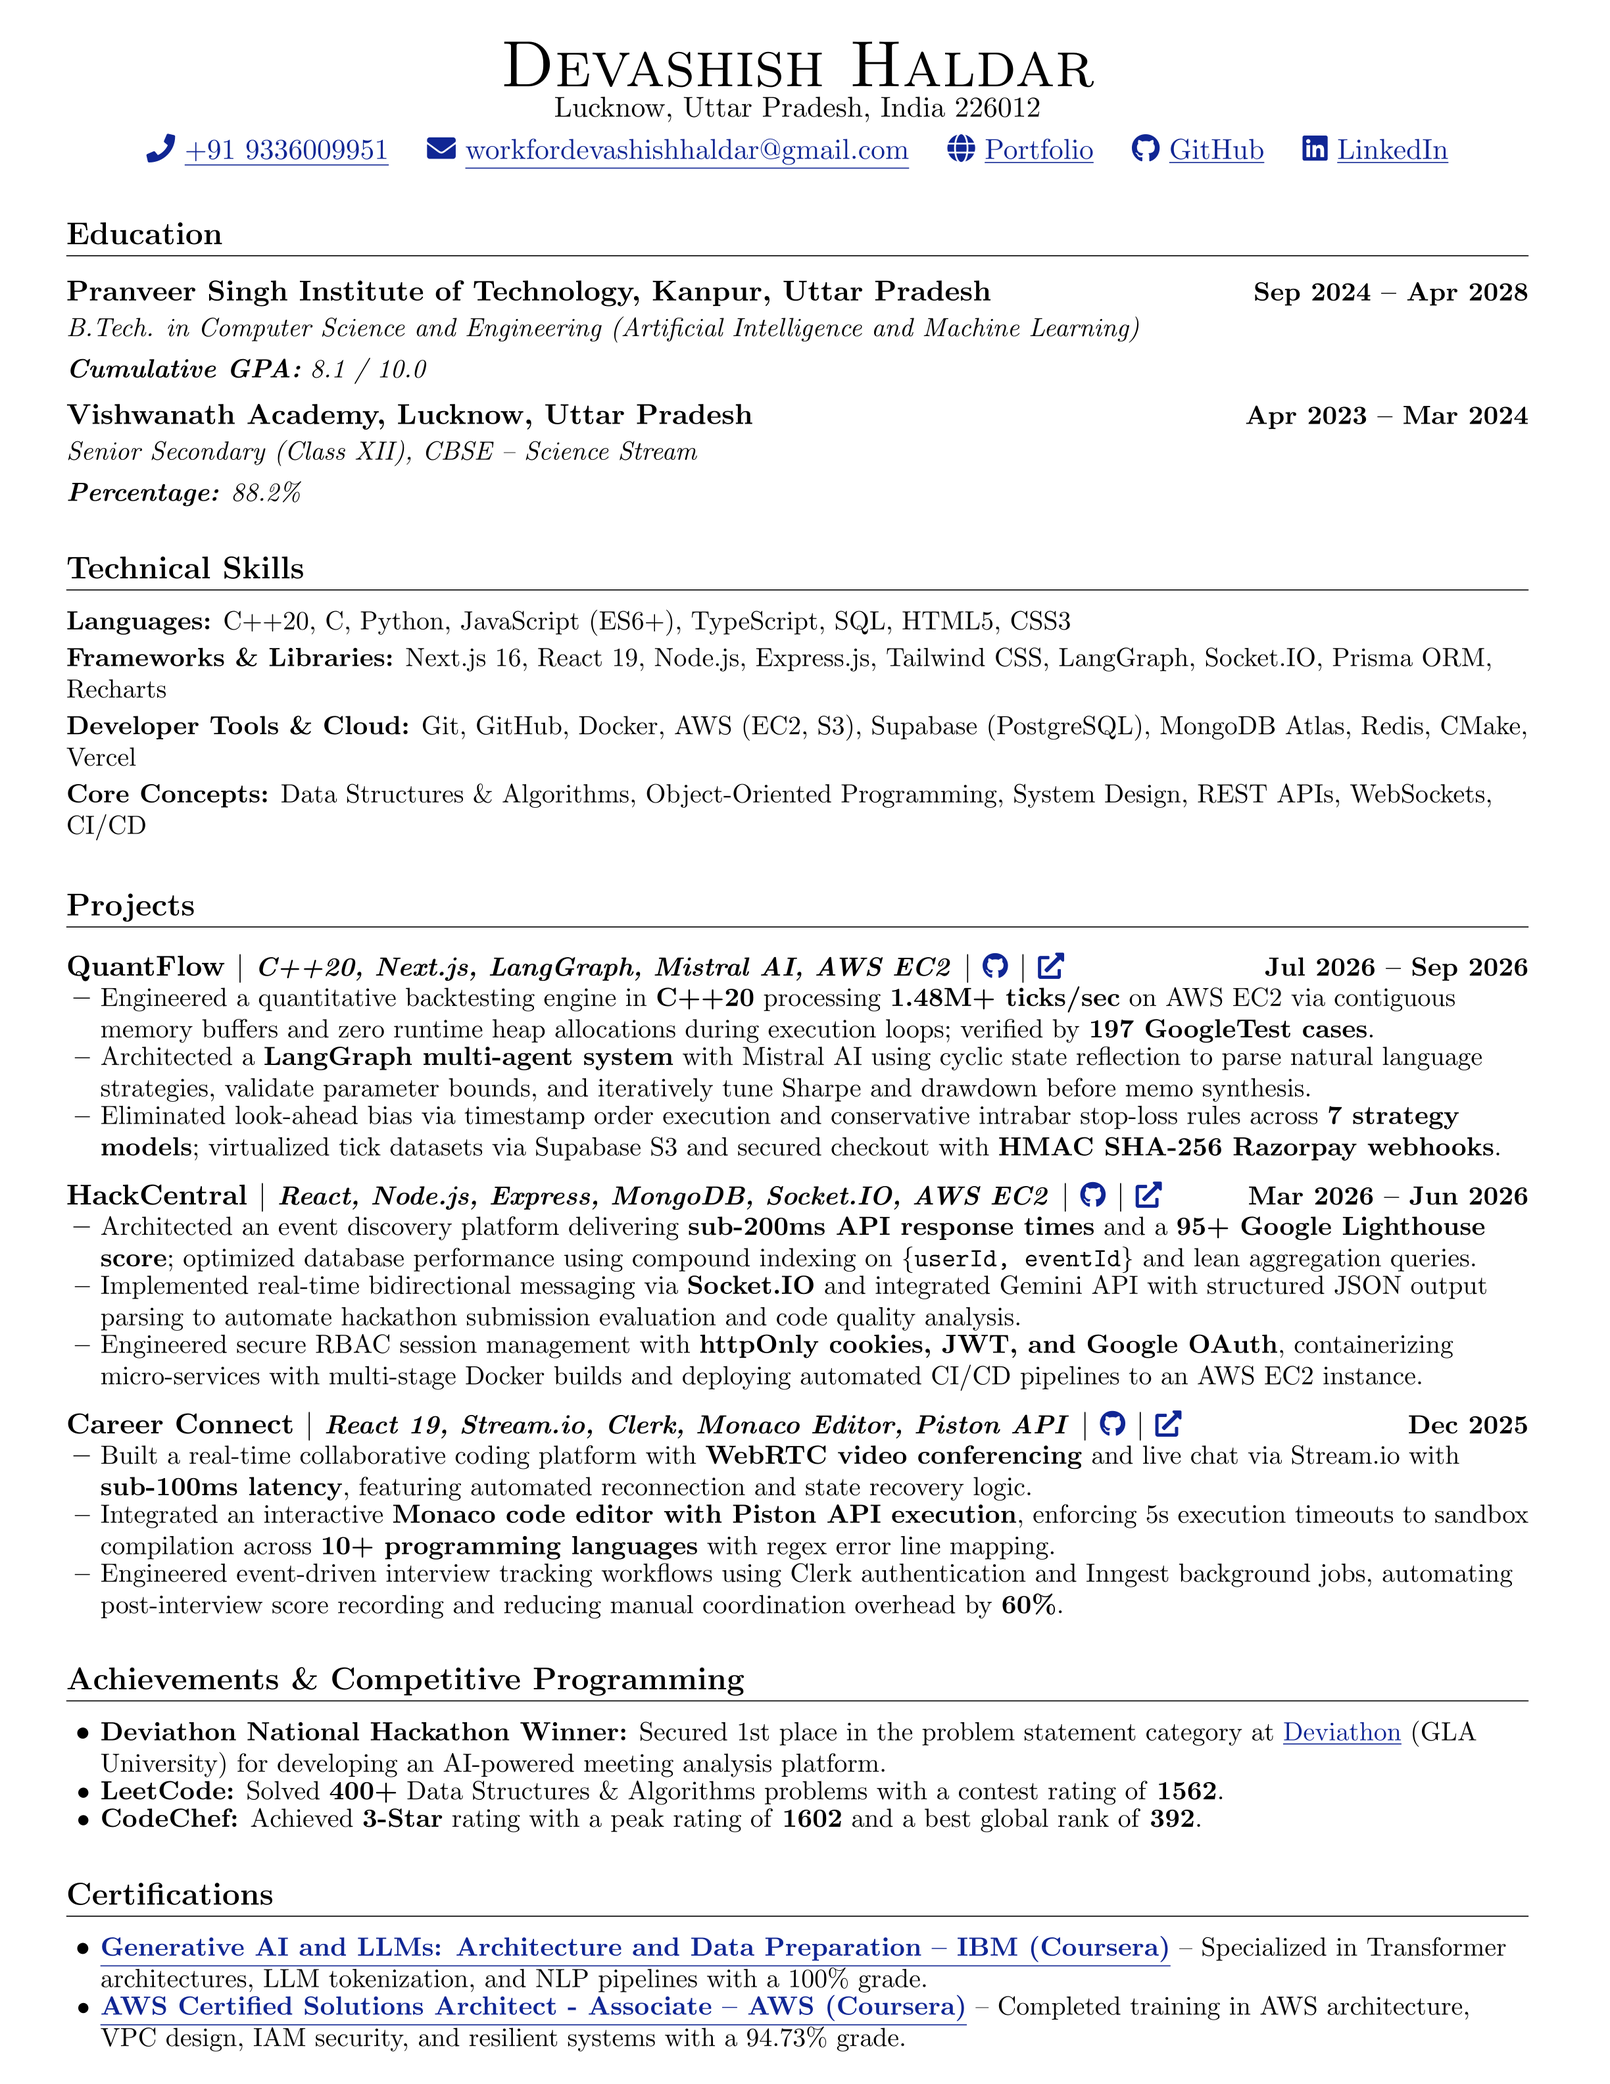
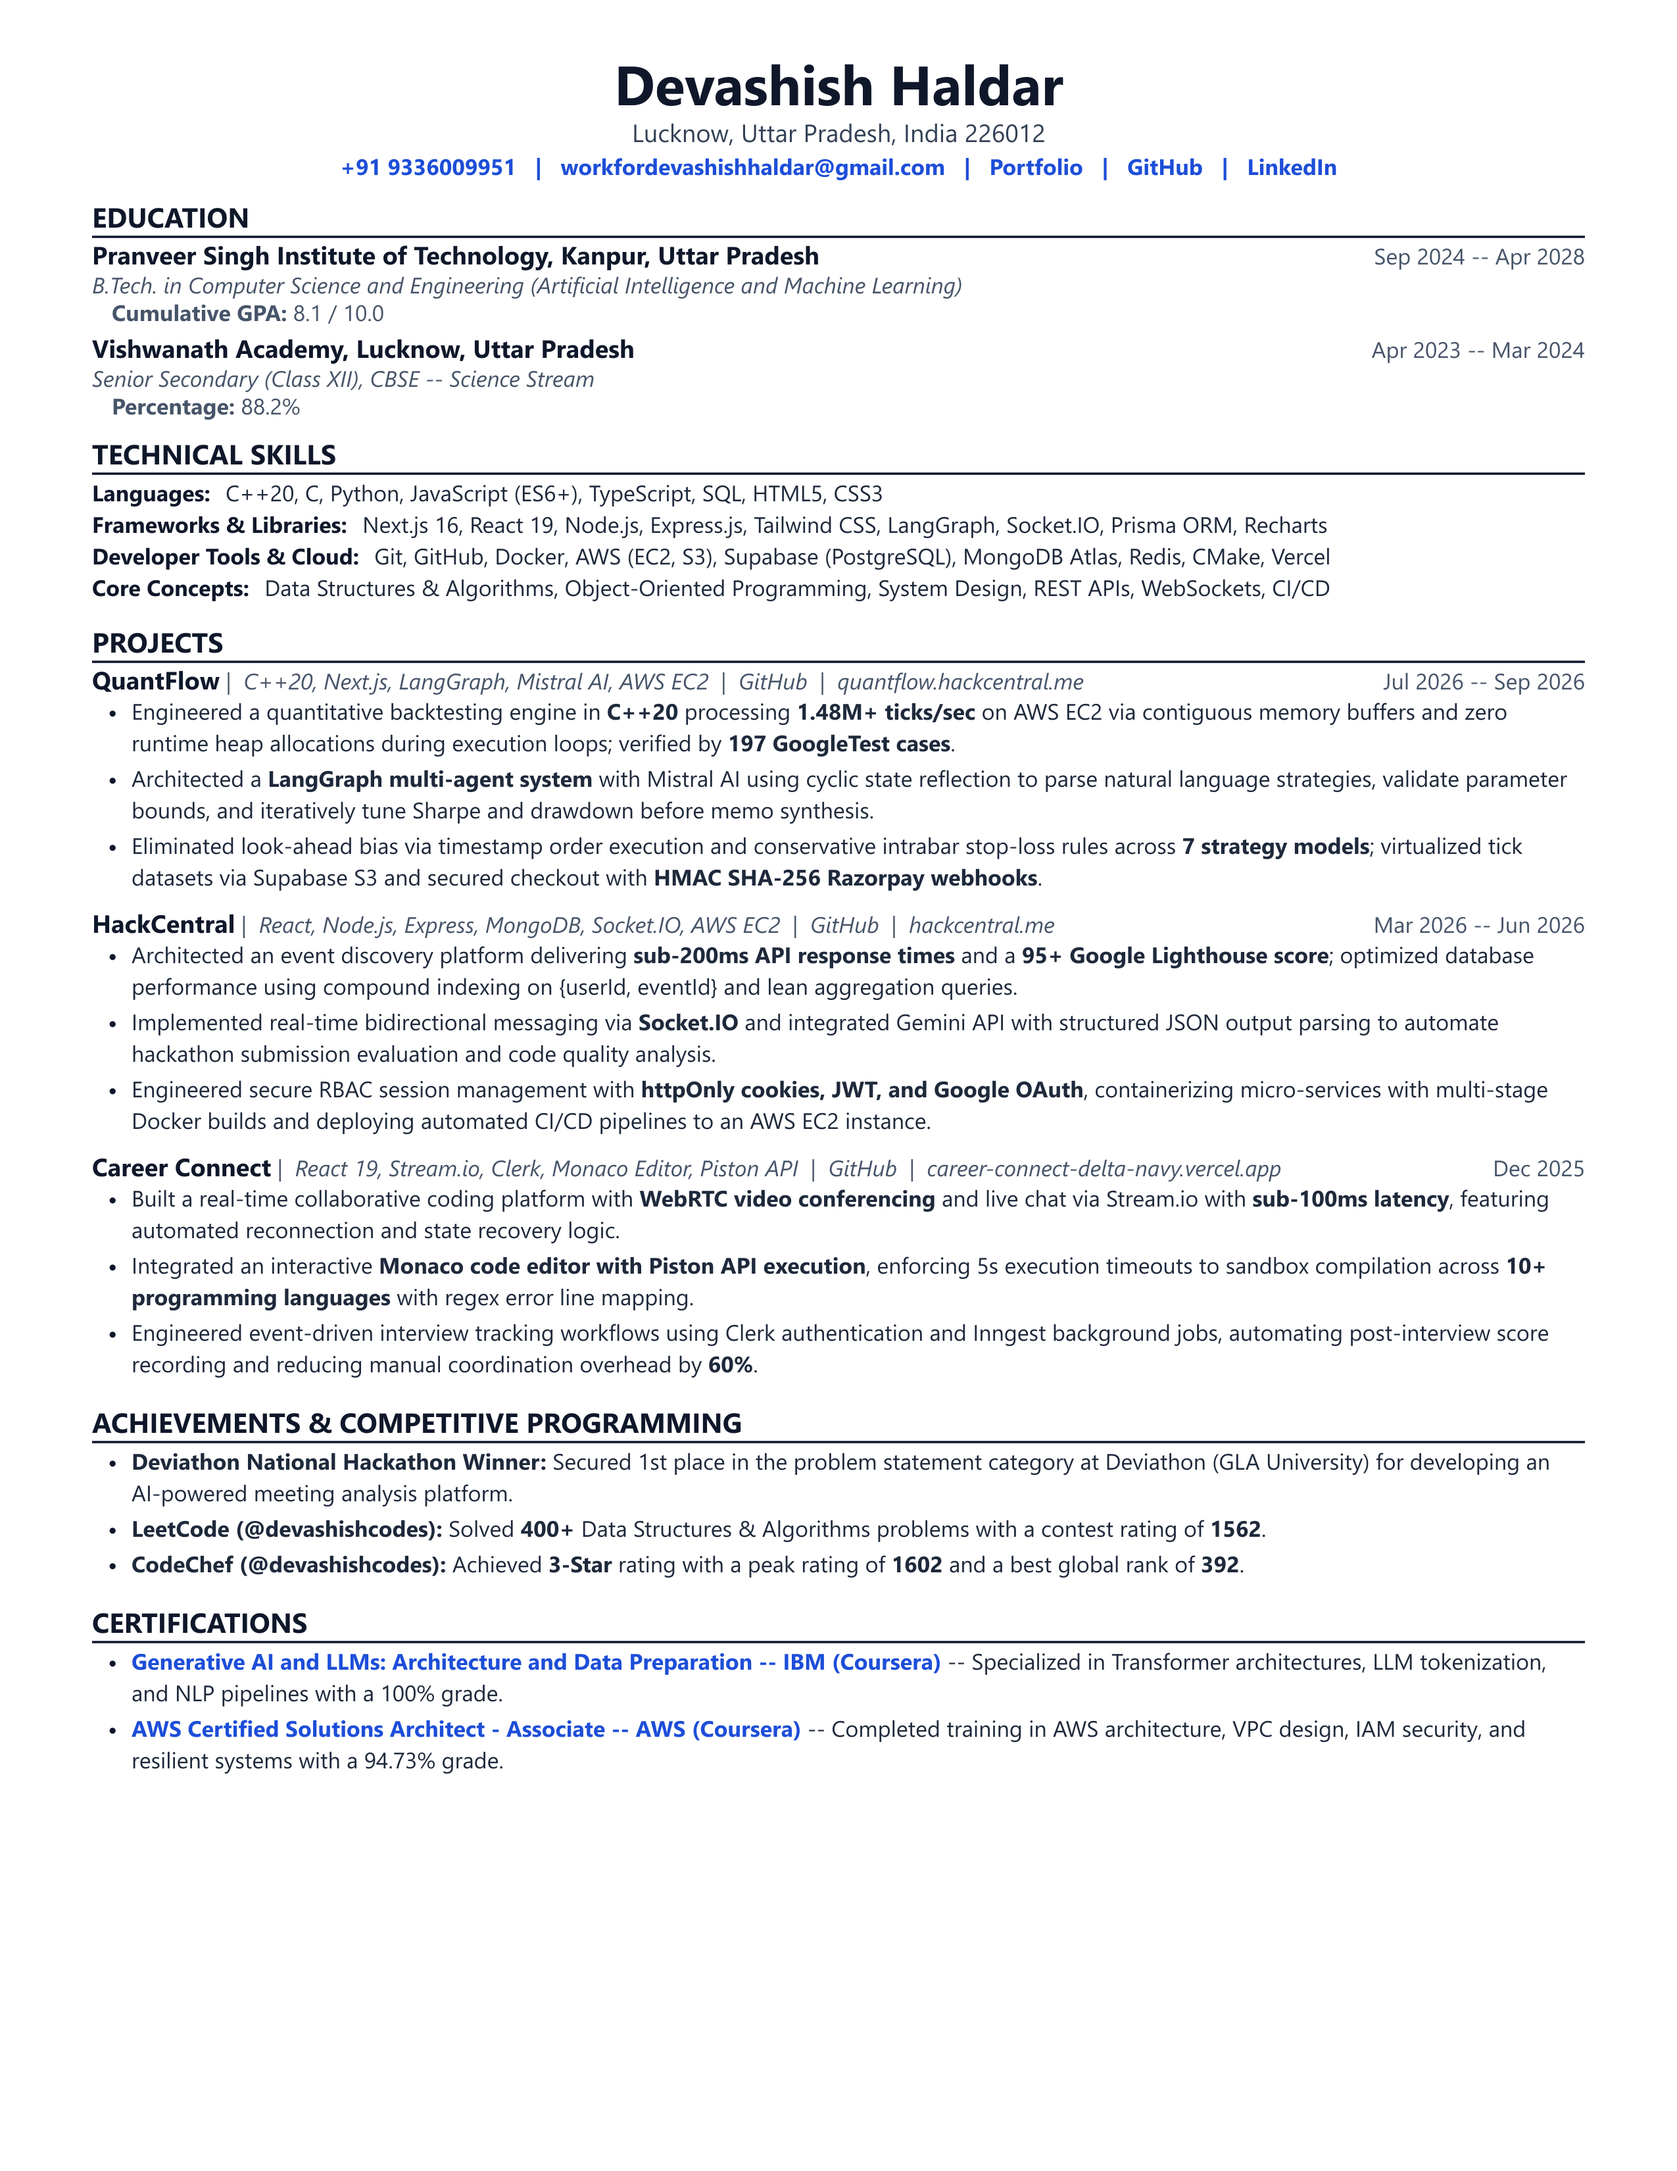
feat: add portfolio UI components, chat API, and automated resume generation scripts

diff --git a/src/app/api/chat/route.ts b/src/app/api/chat/route.ts
@@ -31,7 +31,7 @@ Candidate Dossier & Facts (Never hallucinate outside these facts):
 Major Projects:
 1. QuantFlow (Jul 2026 — Sep 2026): High-frequency quantitative backtesting platform. Core engine built in C++20 processing 1.48M+ ticks/sec on AWS EC2 (c6i.2xlarge) using contiguous memory buffers and zero runtime heap allocations. 197 / 197 GoogleTest cases passed. LangGraph multi-agent loop with Mistral AI using cyclic state reflection to tune Sharpe and drawdown. 0 look-ahead bias via timestamp order execution and intrabar stop-loss rules. Supabase S3 virtualized tick dataset storage; HMAC SHA-256 Razorpay webhook verification. Live: https://quantflow.hackcentral.me
 2. HackCentral (Mar 2026 — Jun 2026): Event discovery & real-time hackathon management platform. Sub-200ms API latency, 95+ Google Lighthouse score. Socket.IO bidirectional collaboration, MongoDB Atlas compound indexes on {userId, eventId}. Google Gemini API with structured JSON output parsing for automated submission evaluation. httpOnly JWT auth & RBAC. Docker on AWS EC2. Live: https://hackcentral.me
-3. Career Connect (Dec 2025): Real-time collaborative interview platform. Stream.io WebRTC (<100ms latency), Monaco code editor with Piston API sandboxed compilation across 10+ languages (5s timeout). Clerk auth + Inngest background jobs reducing coordination overhead by 60%. Live: https://career-connect-4gbj.onrender.com
+3. Career Connect (Dec 2025): Real-time collaborative interview platform. Stream.io WebRTC (<100ms latency), Monaco code editor with Piston API sandboxed compilation across 10+ languages (5s timeout). Clerk auth + Inngest background jobs reducing coordination overhead by 60%. Live: https://career-connect-delta-navy.vercel.app/
 
 Competitive & Honors:
 - Deviathon National Hackathon 1st Place Category Winner (GLA University) for AI meeting analysis platform.

diff --git a/src/components/AboutAndExperience.tsx b/src/components/AboutAndExperience.tsx
@@ -44,7 +44,7 @@ const timelineData: TimelineItem[] = [
     metrics: "Sub-100ms Latency · 10+ Languages · -60% Overhead",
     description:
       "Built a collaborative coding platform with WebRTC video conferencing and live chat via Stream.io (<100ms latency). Integrated Monaco code editor with Piston API execution with 5s execution timeouts to sandbox compilation across 10+ languages. Automated interview tracking with Clerk and Inngest background jobs, reducing coordination overhead by 60%.",
-    link: { label: "Live Platform", url: "https://career-connect-4gbj.onrender.com" },
+    link: { label: "Live Platform", url: "https://career-connect-delta-navy.vercel.app/" },
   },
   {
     year: "2025",

diff --git a/scripts/generate-resume-texture.ts b/scripts/generate-resume-texture.ts
@@ -239,7 +239,7 @@ const ccW = ctx.measureText('Career Connect').width;
 
 ctx.font = 'italic 34px "Segoe UI", Arial, sans-serif';
 ctx.fillStyle = '#475569';
-ctx.fillText(' |  React 19, Stream.io, Clerk, Monaco Editor, Piston API  |  GitHub  |  career-connect-4gbj.onrender.com', leftMargin + ccW, y);
+ctx.fillText(' |  React 19, Stream.io, Clerk, Monaco Editor, Piston API  |  GitHub  |  career-connect-delta-navy.vercel.app', leftMargin + ccW, y);
 
 const ccDate = 'Dec 2025';
 ctx.font = '34px "Segoe UI", Arial, sans-serif';

diff --git a/scripts/generate-pdf.ts b/scripts/generate-pdf.ts
@@ -367,7 +367,7 @@ async function generateResume() {
     color: black,
   });
   let p3CurX = leftMargin + fontBold.widthOfTextAtSize("Career Connect", 9.5) + 6;
-  const p3Tech = "|  React 19, Stream.io, Clerk, Monaco Editor, Piston API  |  GitHub  |  career-connect-4gbj.onrender.com";
+  const p3Tech = "|  React 19, Stream.io, Clerk, Monaco Editor, Piston API  |  GitHub  |  career-connect-delta-navy.vercel.app";
   page.drawText(p3Tech, {
     x: p3CurX,
     y: y,

diff --git a/src/components/SelectedWork.tsx b/src/components/SelectedWork.tsx
@@ -60,7 +60,7 @@ const projects: ProjectItem[] = [
     ],
     tags: ["React 19", "Stream.io", "Clerk", "Monaco Editor", "Piston API", "Inngest", "TypeScript"],
     githubUrl: "https://github.com/devashishhaldar2006/career-connect",
-    liveUrl: "https://career-connect-4gbj.onrender.com",
+    liveUrl: "https://career-connect-delta-navy.vercel.app/",
   },
 ];
 
